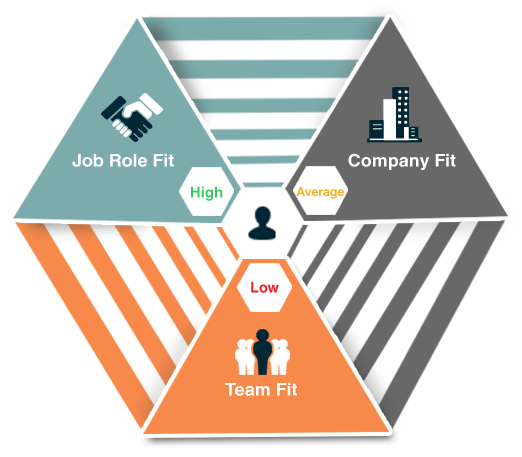
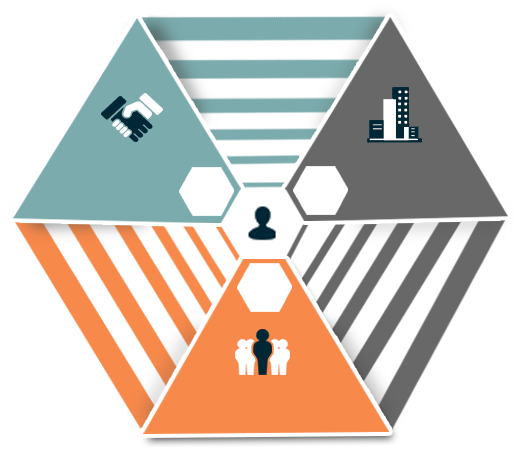
Report page-1: Placeholder added

diff --git a/app/assets/stylesheets/reports.sass b/app/assets/stylesheets/reports.sass
@@ -13,6 +13,7 @@ $weaknesses_color: #ed1f24
     line-height: 12px
   .report_title
     .inn
+      border: 0
       padding: 18px 0
   .weakness
     color: $weaknesses_color !important
@@ -102,6 +103,32 @@ $weaknesses_color: #ed1f24
       padding-top: 7px
       margin-left: 0
   .over_all_report
+    .report_content
+      Position: relative
+      .report_average
+        position: absolute
+        font-weight: bold
+        font-size: 13px
+      .weakness
+        left: 280px
+        top: 332px
+      .p_strenght
+        left: 324px
+        top: 235px
+      .strenght
+        left: 220px
+        top: 235px
+      .title
+        font-weight: bold
+        font-size: 18px
+        color: #fff
+      .role_fit
+        margin: 169px 0 0 100px
+      .company_fit
+        margin: 169px 0 0 175px
+      .team_fit
+        margin: 210px 0 0 255px
+
     .report_title
       .inn
         padding: 11px 0 11px 115px
